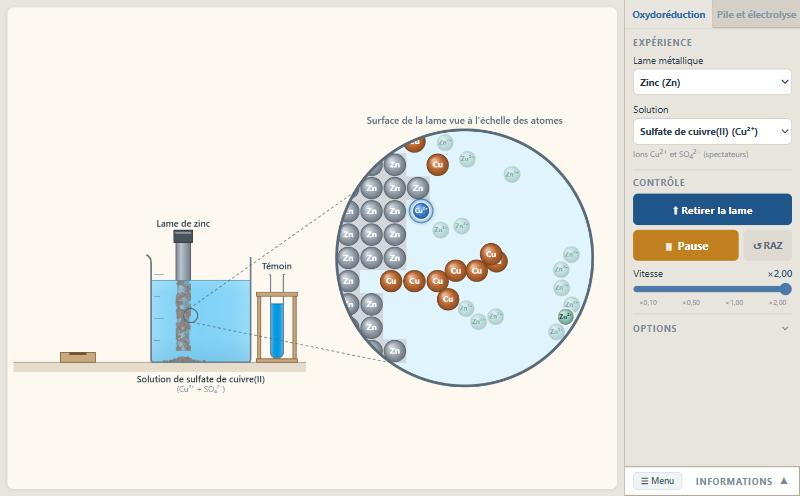
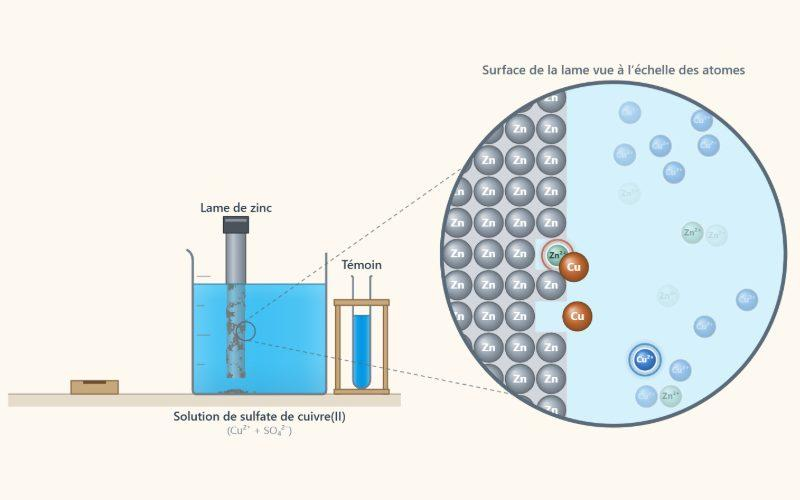
Accueil : card Piles et electrolyses (Terminale) ; apercus Piles et electrolyses et Oxydoreduction recadres sans le panneau ; electrochimie ajoute au sitemap

diff --git a/index.html b/index.html
@@ -1168,10 +1168,29 @@
           </div>
           <div class="card-title">Oxydoréduction</div>
           <div class="card-preview">
-            <img src="assets/previews/oxydoreduction.jpg" alt="Aperçu Oxydoréduction" width="800" height="496" loading="lazy">
+            <img src="assets/previews/oxydoreduction.jpg" alt="Aperçu Oxydoréduction" width="800" height="500" loading="lazy">
           </div>
           <div class="card-desc">
             Réaction d'oxydoréduction entre une lame métallique et une solution d'ions métalliques, à l'échelle macroscopique et à l'échelle microscopique. Visualisation des transferts d'électrons. Demi-équations et équation de la réaction.
+          </div>
+</a>
+
+        <!-- Transformations chimiques — Piles et électrolyses ───── -->
+        <a class="card theme-chimie"
+           href="electrochimie/#pile-electrolyse"
+           data-discipline="chimie"
+           data-theme="transformations-chimiques"
+           data-levels="terminale">
+          <div class="card-meta">
+            <span class="card-theme theme-chimie">Transformations chimiques</span>
+            <span class="card-level level-terminale">Terminale</span>
+          </div>
+          <div class="card-title">Piles et électrolyses</div>
+          <div class="card-preview">
+            <img src="assets/previews/pile-electrolyse.jpg" alt="Aperçu Piles et électrolyses" width="800" height="500" loading="lazy">
+          </div>
+          <div class="card-desc">
+            Fonctionnement d'une pile (demi-piles, pont salin) ou d'une électrolyse avec un générateur. Visualisation des transformations aux électrodes à l'échelle microscopique et du sens de circulation des électrons et des ions.
           </div>
 </a>
 
